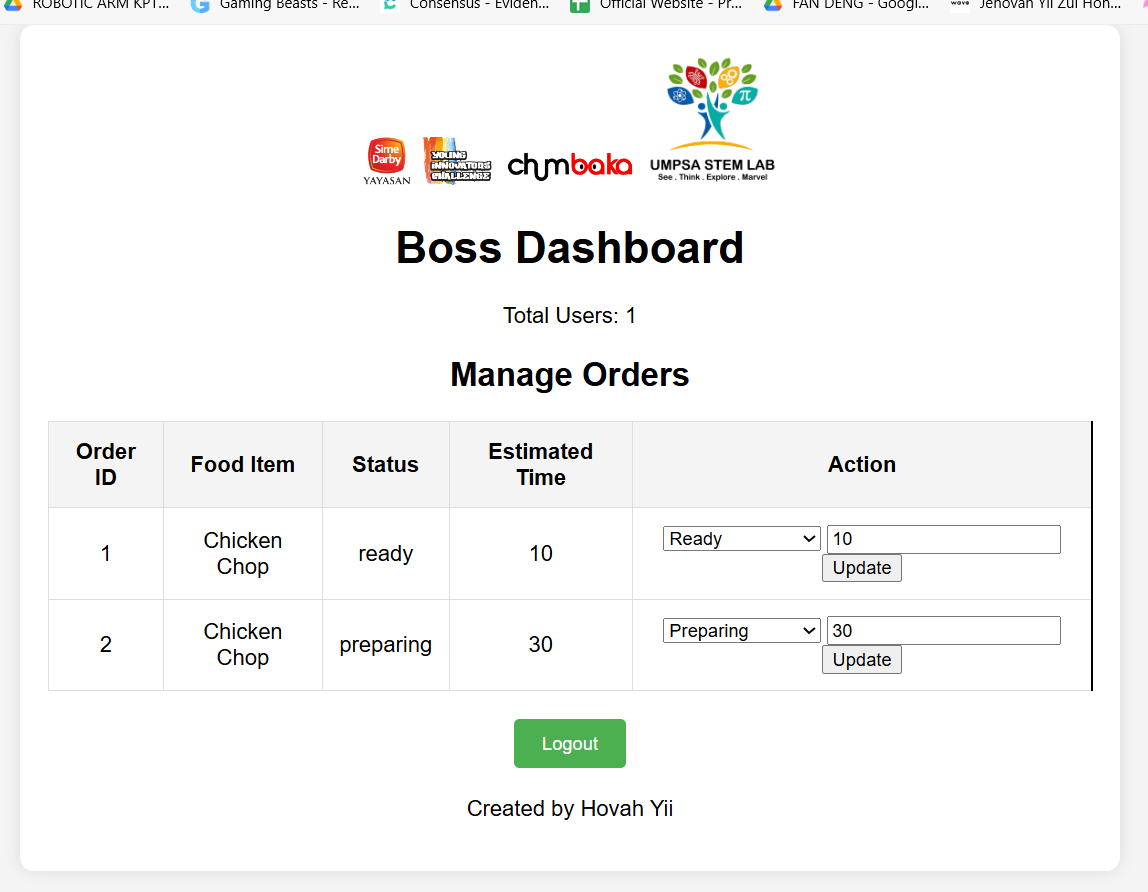
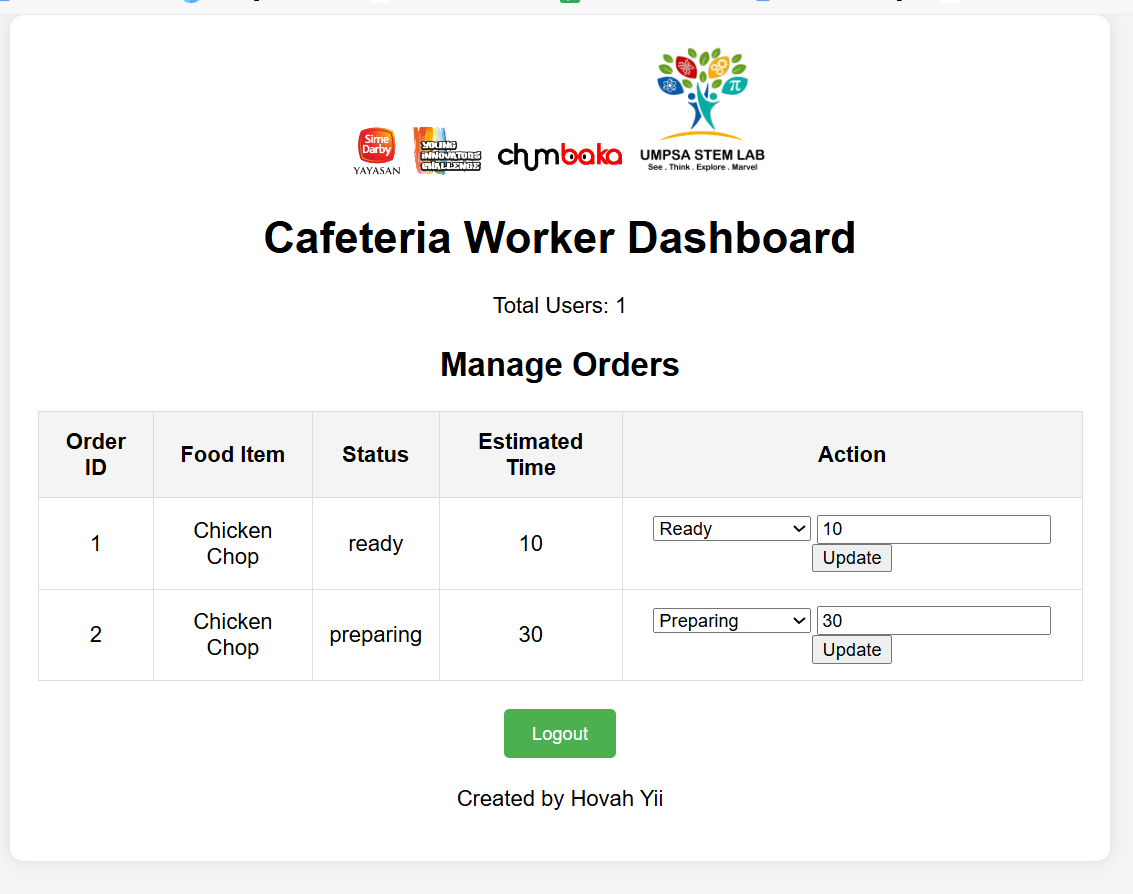
update README

diff --git a/boss_dashboard.php b/boss_dashboard.php
@@ -122,7 +122,7 @@ $conn->close();
     <img src="logos/chumbaka.png" alt="Chumbaka Logo" style="width: 100px;">
     <img src="logos/stemlab-logo-large.png" alt="STEM Lab Logo" style="width: 100px;">
 
-    <h1>Cafeteria Workers Dashboard</h1>
+    <h1>Cafeteria Worker Dashboard</h1>
     <p>Total Users: <?php echo $user_count; ?></p>
 
     <h2>Manage Orders</h2>

diff --git a/README.md b/README.md
@@ -26,6 +26,9 @@
 - **LCD Screen**: Displays the current status of food orders.
 - **Web Interface**: For students to place orders and for workers to manage those orders.
 
+### Presentation Slide
+[CanteenBuddy PPTX](https://www.canva.com/design/DAGGpEDKla8/Sd8BpAdUfBxiU9I5wILFGg/edit?utm_content=DAGGpEDKla8&utm_campaign=designshare&utm_medium=link2&utm_source=sharebutton)
+
 ### Installation
 
 1. **Clone the repository:**
